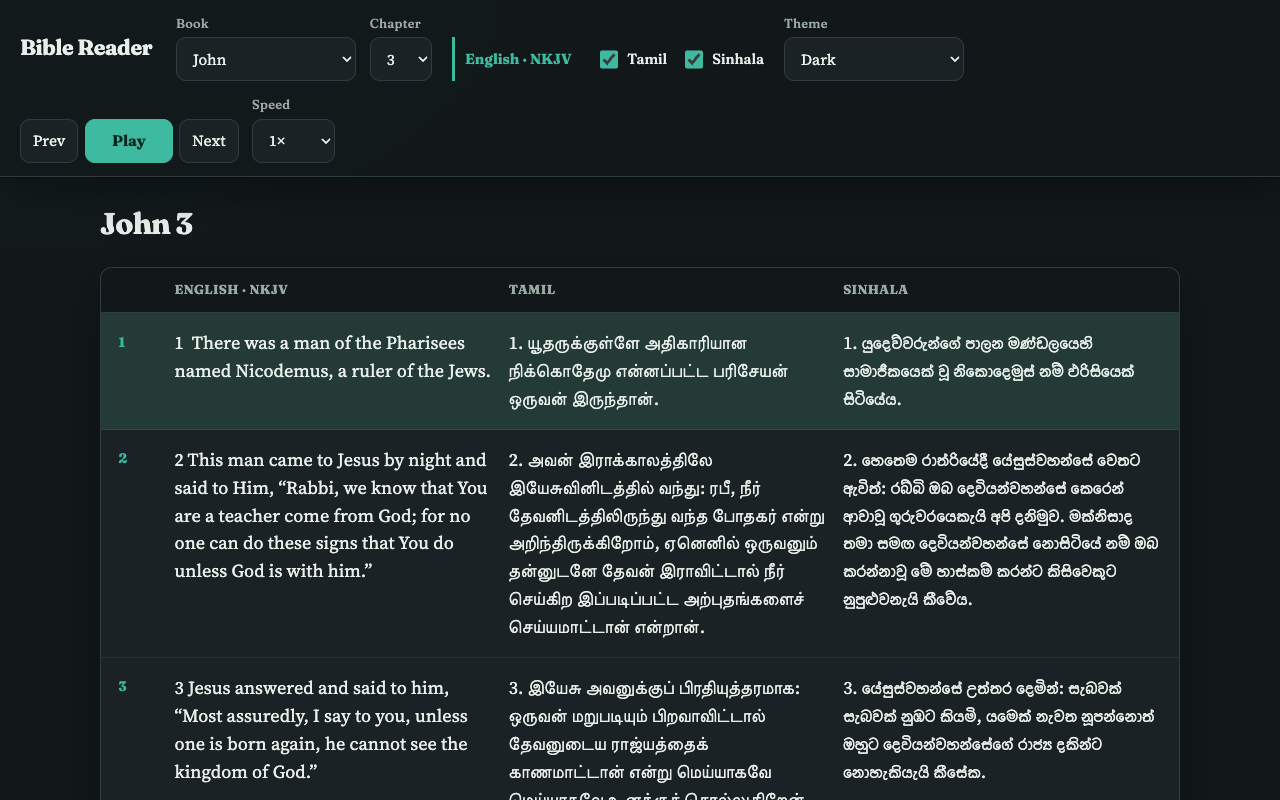
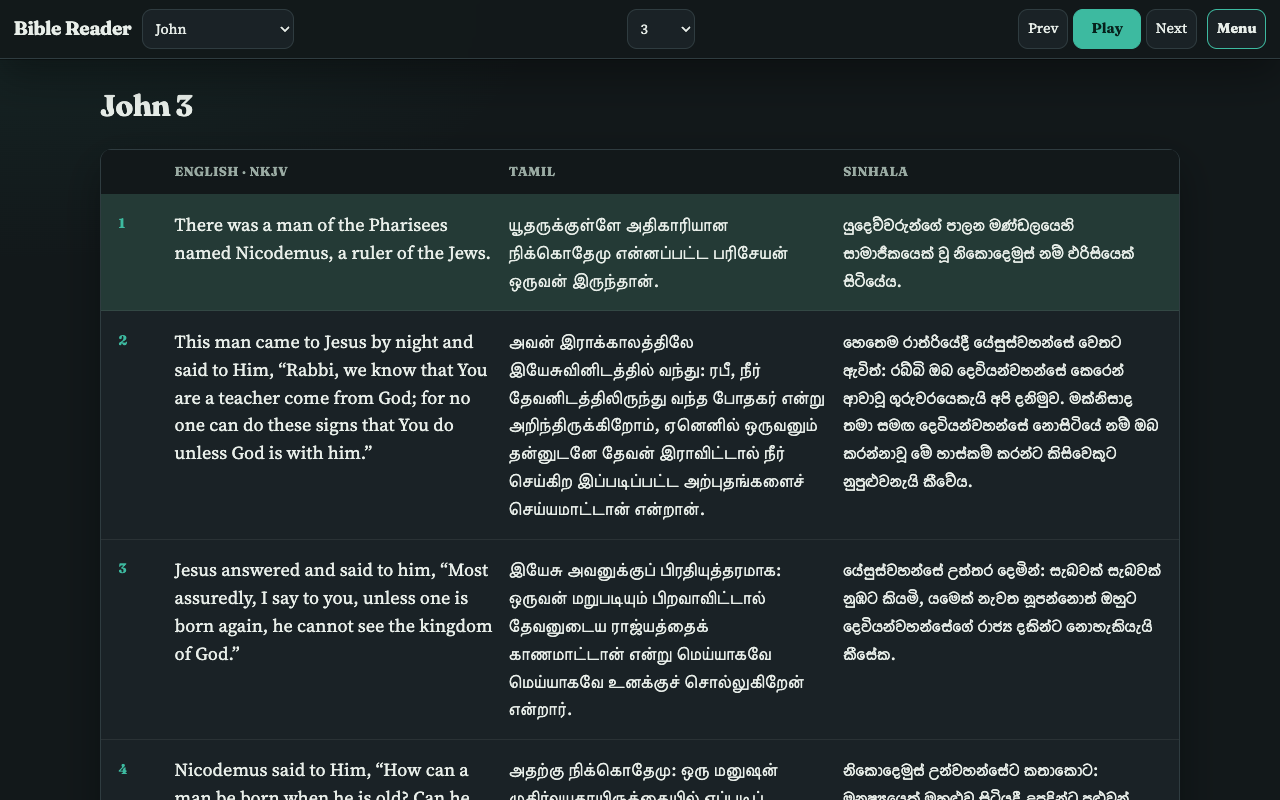
Add online github pages

diff --git a/README.md b/README.md
@@ -6,6 +6,7 @@ Multilingual Bible reader (English NKJV, Tamil, Sinhala) with a modern static UI
 
 ## Features
 
+- Compact one-line toolbar with expandable Menu (languages, theme, speed)
 - Book and chapter dropdowns (Old / New Testament groups)
 - Side-by-side English, Tamil, and Sinhala (English always on; Tamil/Sinhala optional)
 - English text-to-speech: play / pause, previous / next verse, speed control
@@ -23,6 +24,10 @@ Multilingual Bible reader (English NKJV, Tamil, Sinhala) with a modern static UI
 
 ![Bible Reader dark theme](docs/screenshots/theme-dark.png)
 
+### Dark with menu open
+
+![Bible Reader dark theme with menu open](docs/screenshots/theme-dark-menu-open.png)
+
 ### High contrast light
 
 ![Bible Reader high contrast light theme](docs/screenshots/theme-high-contrast-light.png)
@@ -34,6 +39,10 @@ Multilingual Bible reader (English NKJV, Tamil, Sinhala) with a modern static UI
 ### Mobile
 
 ![Bible Reader on mobile](docs/screenshots/mobile-light.png)
+
+### Mobile with menu open
+
+![Bible Reader mobile menu](docs/screenshots/mobile-light-menu-open.png)
 
 To replace or add screenshots, drop PNGs into `docs/screenshots/` and link them above.
 
